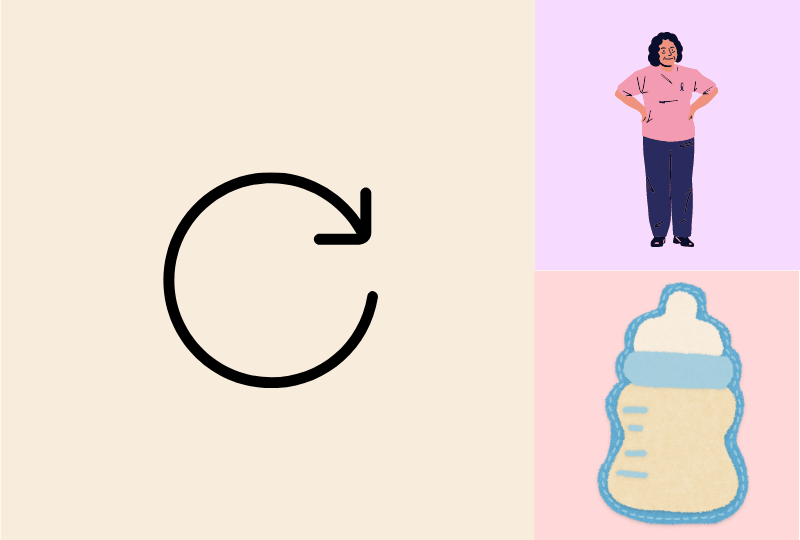
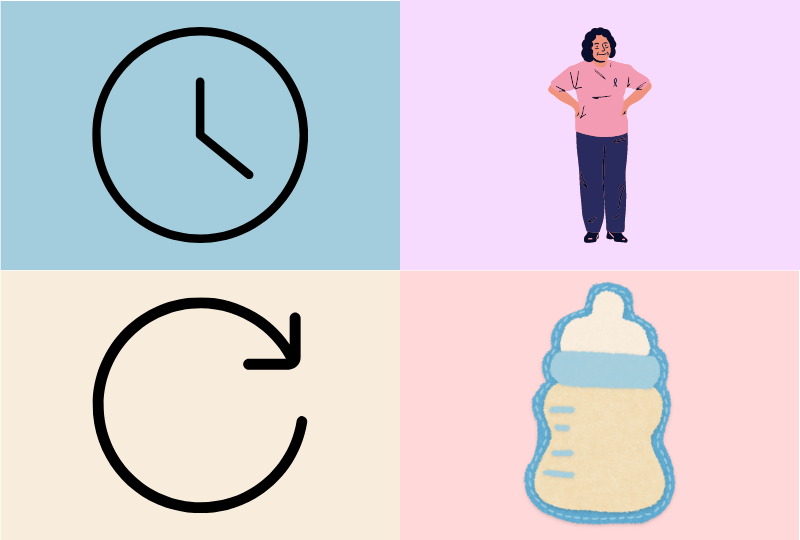
:sparkles: Add get last row

diff --git a/gas.js b/gas.js
@@ -21,6 +21,11 @@ function doPost(e) {
     doReply(replyText, replyToken);
     return;
   }
+  if (message === '!吃多少') {
+    replyText = getLastRow();
+    doReply(replyText, replyToken);
+    return;
+  }
 
   const state = getState();
   switch (state) {
@@ -139,4 +144,24 @@ function doReply(message, replyToken) {
   };
 
   UrlFetchApp.fetch('https://api.line.me/v2/bot/message/reply', options);
+}
+
+function getLastRow() {
+  const rows = sheet.getRange('A2:C').getValues();
+  const lastRow = rows[rows.length - 1];
+  const lastDate = new Date(lastRow[0]);
+  const now = new Date();
+  const diff = now.getTime() - lastDate.getTime();
+  const diffHours = Math.floor(diff / (1000 * 60 * 60));
+  const diffMinutes = Math.floor((diff / (1000 * 60)) % 60);
+  const diffSeconds = Math.floor((diff / 1000) % 60);
+
+  const lastType = lastRow[1];
+  const lastUnit =
+    lastType === '配方奶' ? lastRow[2] + ' cc' : lastRow[2] + ' 分鐘';
+  return `上次喝奶時間：${lastDate.toLocaleString('zh-TW', {
+    timeZone: 'Asia/Taipei',
+  })}\n距離上次喝奶：${diffHours}小時${diffMinutes}分鐘${diffSeconds}秒
+  \n上次喝奶種類：${lastType}
+  \n上次喝奶單位：${lastUnit}`;
 }
